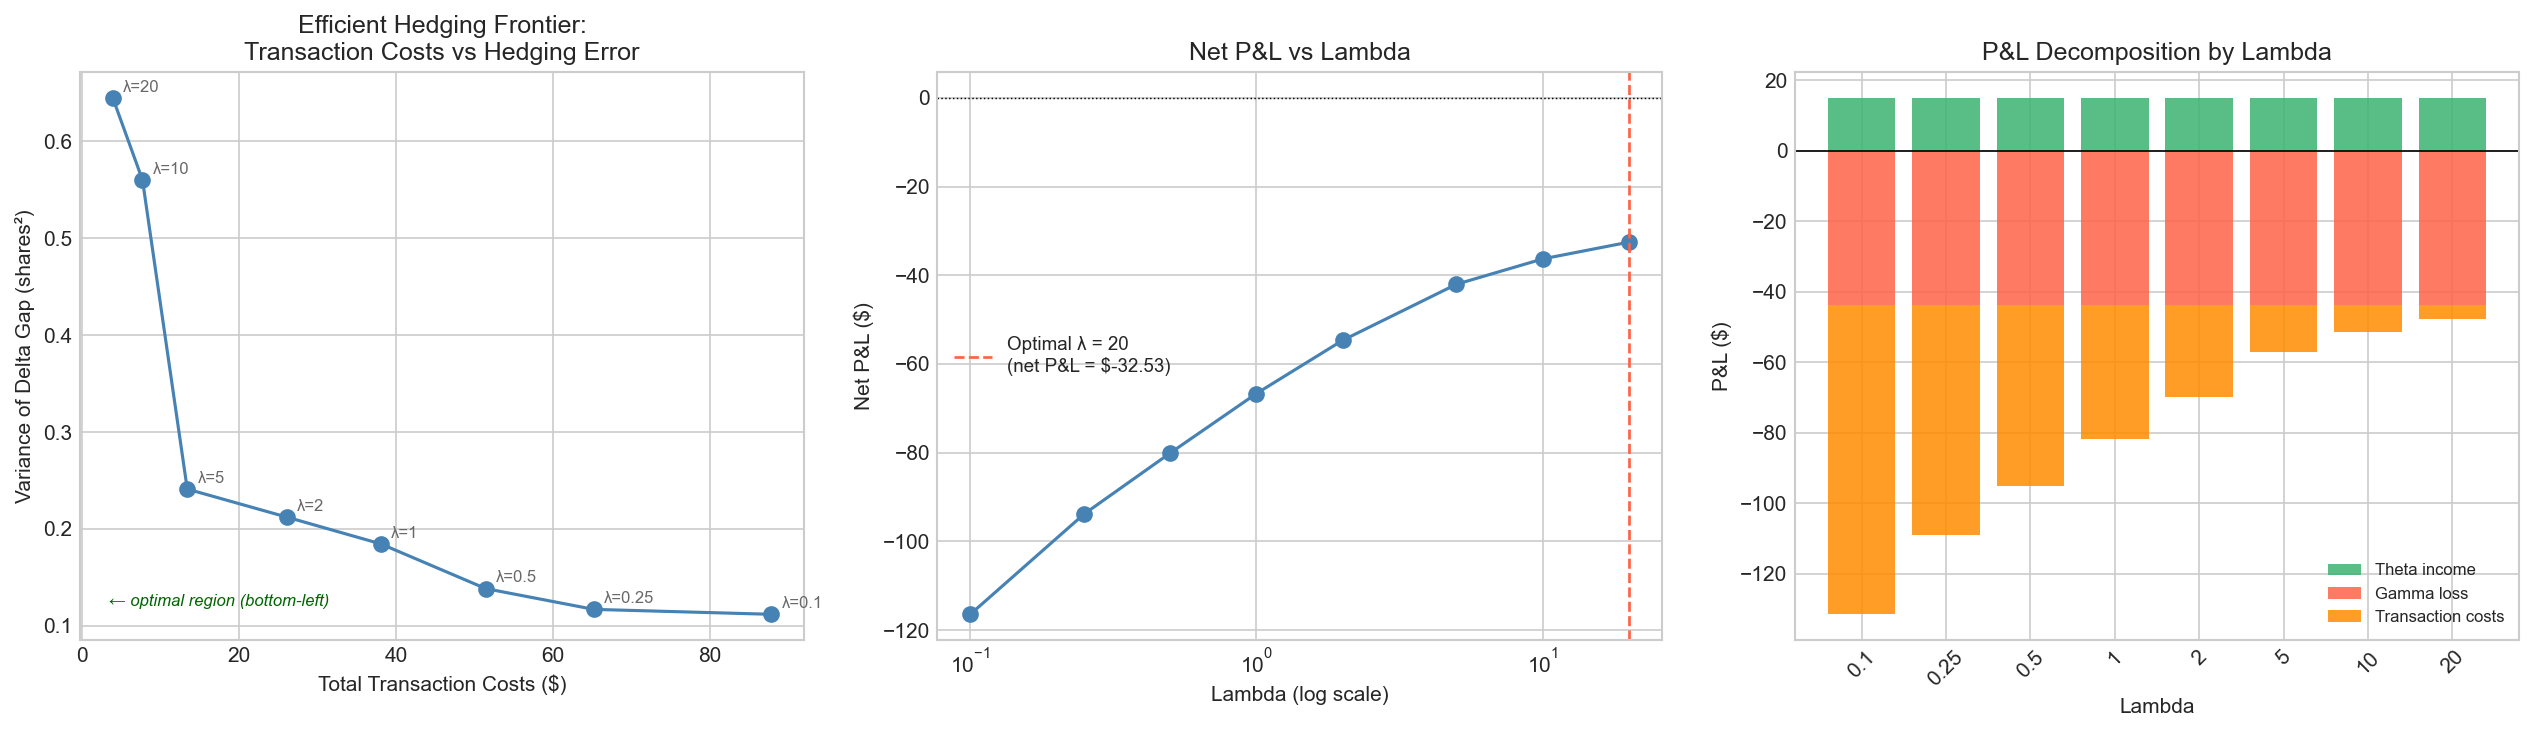
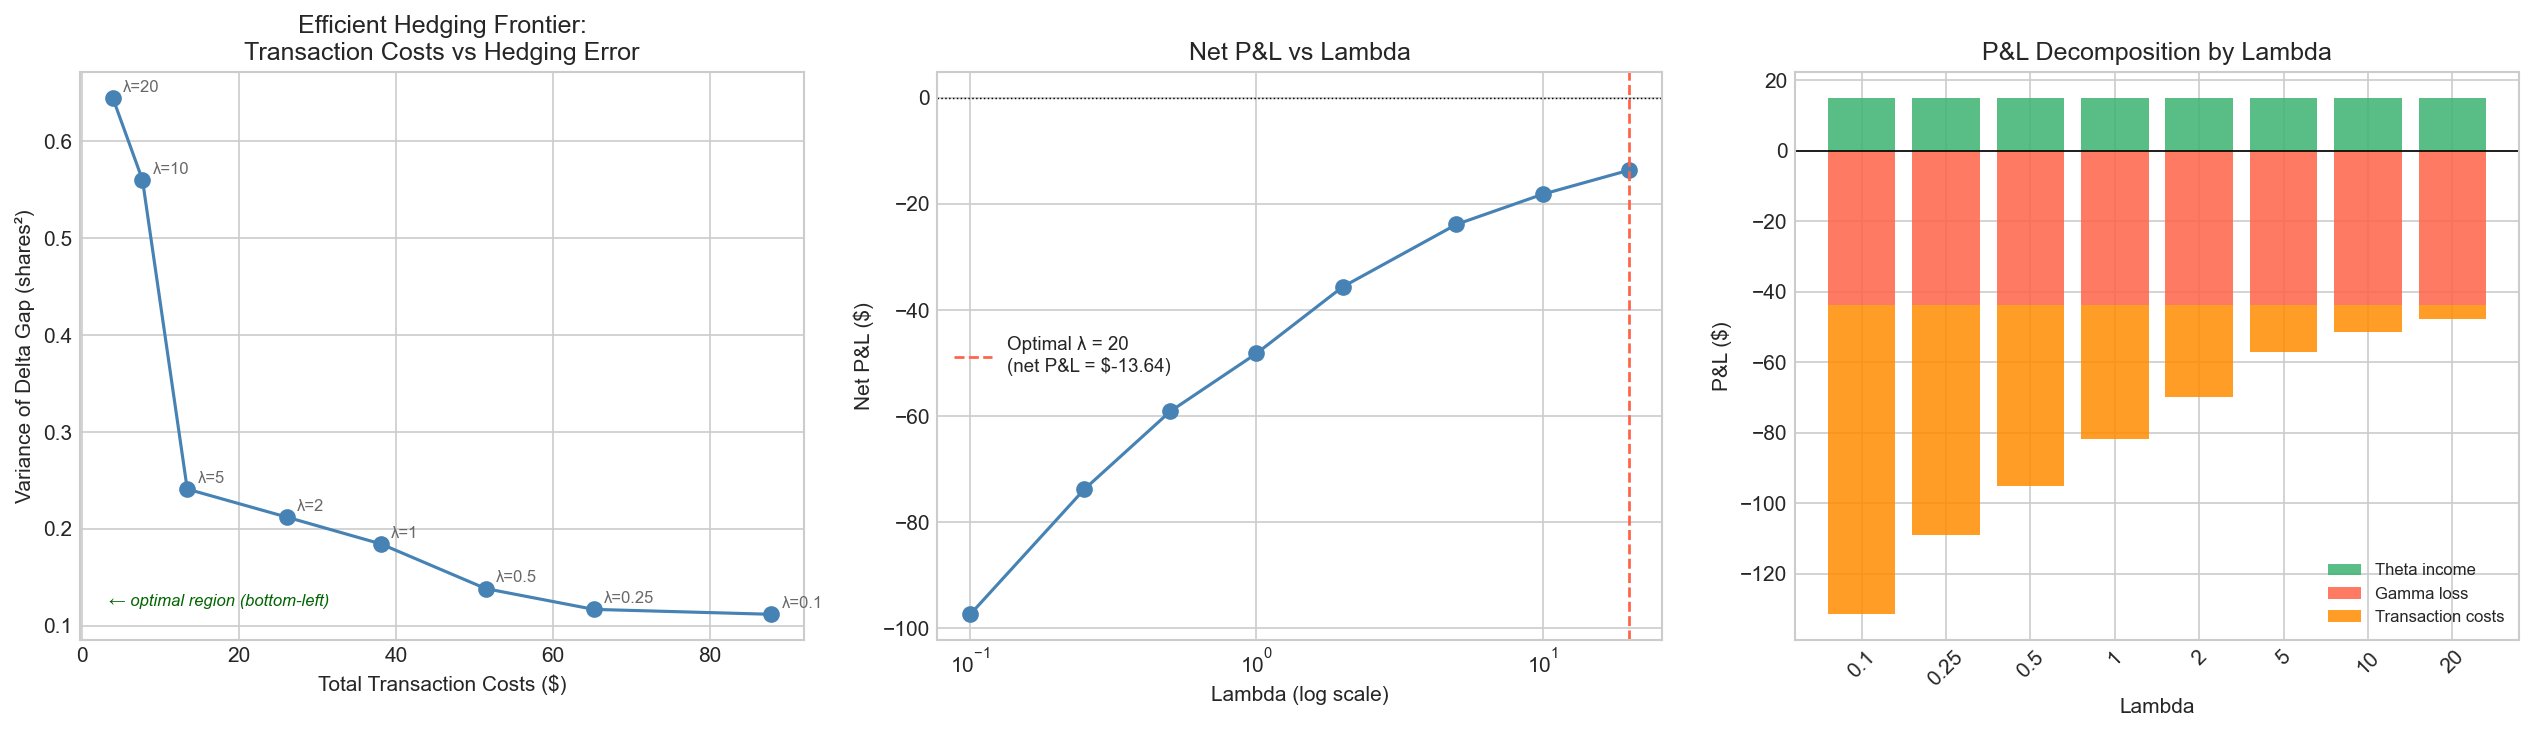
updated with delta P&L

diff --git a/engine/simulator.cpp b/engine/simulator.cpp
@@ -39,7 +39,7 @@ void run_simulation(const std::string& ob_file, const std::string& msg_file, dou
                  "delta_gap_shares,T_remaining,time_since_last_hedge,gamma_pnl_step,"
                  "theta_pnl_step,net_pnl_step,cumulative_gamma_pnl,cumulative_theta_pnl,"
                  "cumulative_tcost,rolling_ofi_50,hedged,shares_traded,exec_price,"
-                 "slippage_per_share,total_slippage\n";
+                 "slippage_per_share,total_slippage,mtm_pnl\n";
 
     hedge_out << "timestamp,mid_price,spread,delta_gap_shares,shares_traded,exec_price,"
                  "slippage_per_share,total_slippage,rolling_ofi_50,hedge_number,cumulative_tcost\n";
@@ -55,6 +55,10 @@ void run_simulation(const std::string& ob_file, const std::string& msg_file, dou
     double cumulative_tcost      = 0.0;
     double cumulative_gamma_pnl  = 0.0;
     double cumulative_theta_pnl  = 0.0;
+    double initial_straddle_value = 0.0;
+    double cumulative_hedge_cash  = 0.0;
+    double final_mtm_pnl          = 0.0;
+    bool   straddle_initialized   = false;
     int    hedge_count           = 0;
     int    prev_bid_size_1       = 0;
     int    prev_ask_size_1       = 0;
@@ -133,24 +137,33 @@ void run_simulation(const std::string& ob_file, const std::string& msg_file, dou
 
         if (spread < 0.0 || mid_price <= 0.0) continue;
 
+        // T_remaining in years — computed first so it is available to the bootstrap init.
+        double T_remaining = std::max(
+            EXPIRY_DAYS / 365.0 - (timestamp - TRADING_START) / (86400.0 * 365.0),
+            0.001);
+
         // Bootstrap: initialise state from the very first valid row.
-        // dS, dt, and time_since_last_hedge are all 0 on this row, so
-        // gamma P&L, theta P&L, and gamma_risk are all zero — no hedge fires.
+        // Must run before dt/time_since_last_hedge so those quantities are 0 on row 1,
+        // keeping gamma P&L, theta P&L, and gamma_risk all zero — no hedge fires.
         if (first_row) {
             prev_mid        = mid_price;
             prev_timestamp  = timestamp;
             last_hedge_time = timestamp;
             first_row       = false;
+
+            if (!straddle_initialized) {
+                double init_call = bs_price_call(mid_price, STRIKE,
+                                                 T_remaining, RISK_FREE, IMPLIED_VOL);
+                double init_put  = bs_price_put(mid_price, STRIKE,
+                                                T_remaining, RISK_FREE, IMPLIED_VOL);
+                initial_straddle_value = (init_call + init_put) * CONTRACT_SIZE;
+                straddle_initialized   = true;
+            }
         }
 
         // --- Step 3 (cont): time variables ---
         double dt                    = timestamp - prev_timestamp;
         double time_since_last_hedge = timestamp - last_hedge_time;
-
-        // T_remaining in years: elapsed calendar seconds → calendar years (÷ 86400 × 365)
-        double T_remaining = std::max(
-            EXPIRY_DAYS / 365.0 - (timestamp - TRADING_START) / (86400.0 * 365.0),
-            0.001);
 
         // --- Step 4: greeks ---
         StraddleGreeks g;
@@ -204,9 +217,10 @@ void run_simulation(const std::string& ob_file, const std::string& msg_file, dou
                 slippage_per_share = std::abs(exec_price - mid_price);
                 total_slippage     = slippage_per_share * std::abs(shares_to_trade);
 
-                position_delta   -= (double)shares_to_trade;
-                cumulative_tcost += total_slippage;
-                last_hedge_time   = timestamp;
+                position_delta       -= (double)shares_to_trade;
+                cumulative_tcost     += total_slippage;
+                cumulative_hedge_cash += (double)shares_to_trade * exec_price;
+                last_hedge_time       = timestamp;
                 ++hedge_count;
                 hedged = 1;
 
@@ -224,9 +238,22 @@ void run_simulation(const std::string& ob_file, const std::string& msg_file, dou
         double theta_pnl_step = g.theta * (dt / 86400.0) * CONTRACT_SIZE;
         double net_pnl_step   = gamma_pnl_step + theta_pnl_step - total_slippage;
 
+        // --- Step 9 (cont): mark-to-market P&L ---
+        double current_call  = bs_price_call(mid_price, STRIKE,
+                                             T_remaining, RISK_FREE, IMPLIED_VOL);
+        double current_put   = bs_price_put(mid_price, STRIKE,
+                                            T_remaining, RISK_FREE, IMPLIED_VOL);
+        double current_straddle_value = (current_call + current_put) * CONTRACT_SIZE;
+        double hedge_inventory_value  = position_delta * mid_price;
+        double mtm_pnl = initial_straddle_value
+                       - current_straddle_value
+                       + hedge_inventory_value
+                       + cumulative_hedge_cash;
+
         // --- Step 10: update cumulative P&L ---
         cumulative_gamma_pnl += gamma_pnl_step;
         cumulative_theta_pnl += theta_pnl_step;
+        final_mtm_pnl         = mtm_pnl;
 
         // --- Step 11: write tick_log ---
         tick_out << std::fixed
@@ -256,7 +283,8 @@ void run_simulation(const std::string& ob_file, const std::string& msg_file, dou
                  << shares_to_trade << ","
                  << std::setprecision(4) << exec_price << ","
                  << slippage_per_share << ","
-                 << std::setprecision(6) << total_slippage << "\n";
+                 << std::setprecision(6) << total_slippage << ","
+                 << mtm_pnl << "\n";
 
         // --- Step 12: write hedge_log ---
         if (hedged) {
@@ -299,17 +327,19 @@ void run_simulation(const std::string& ob_file, const std::string& msg_file, dou
     if (hedge_count > 1)
         avg_time_between_hedges = (prev_hedge_time - first_hedge_time) / (double)(hedge_count - 1);
 
-    double net_pnl = cumulative_gamma_pnl + cumulative_theta_pnl - cumulative_tcost;
+    double greek_net_pnl = cumulative_gamma_pnl + cumulative_theta_pnl - cumulative_tcost;
 
     sum_out << "total_events,total_hedges,total_gamma_pnl,total_theta_pnl,total_tcost,"
-               "net_pnl,avg_spread,avg_time_between_hedges,lambda_used,implied_vol_used,strike_used\n";
+               "greek_net_pnl,mtm_pnl,avg_spread,avg_time_between_hedges,"
+               "lambda_used,implied_vol_used,strike_used\n";
     sum_out << std::fixed << std::setprecision(6)
             << total_events << ","
             << hedge_count  << ","
             << cumulative_gamma_pnl << ","
             << cumulative_theta_pnl << ","
             << cumulative_tcost << ","
-            << net_pnl << ","
+            << greek_net_pnl << ","
+            << final_mtm_pnl << ","
             << avg_spread << ","
             << avg_time_between_hedges << ","
             << lambda << ","
@@ -325,7 +355,8 @@ void run_simulation(const std::string& ob_file, const std::string& msg_file, dou
               << "Cumulative gamma P&L   : $" << cumulative_gamma_pnl  << "\n"
               << "Cumulative theta P&L   : $" << cumulative_theta_pnl  << "\n"
               << "Total transaction costs: $" << cumulative_tcost       << "\n"
-              << "Net P&L                : $" << net_pnl                << "\n"
+              << "Greek net P&L          : $" << greek_net_pnl          << "\n"
+              << "MTM P&L                : $" << final_mtm_pnl          << "\n"
               << std::setprecision(4)
               << "Average spread         : $" << avg_spread             << "\n"
               << std::setprecision(1)

diff --git a/engine/greeks.hpp b/engine/greeks.hpp
@@ -1,4 +1,5 @@
 #pragma once
+#include <algorithm>
 #include <cmath>
 
 #ifndef M_PI
@@ -49,6 +50,26 @@ inline double bs_theta_put(double S, double K, double T, double r, double sigma)
     double d2 = bs_d2(S, K, T, r, sigma);
     return -(S * norm_pdf(d1) * sigma / (2.0 * std::sqrt(T))
              - r * K * std::exp(-r * T) * norm_cdf(-d2)) / 365.0;
+}
+
+inline double bs_price_call(double S, double K, double T,
+                             double r, double sigma) {
+    if (T <= 0.0 || sigma <= 0.0 || S <= 0.0 || K <= 0.0)
+        return std::max(S - K, 0.0);
+    double d1 = bs_d1(S, K, T, r, sigma);
+    double d2 = bs_d2(S, K, T, r, sigma);
+    return S * norm_cdf(d1)
+           - K * std::exp(-r * T) * norm_cdf(d2);
+}
+
+inline double bs_price_put(double S, double K, double T,
+                            double r, double sigma) {
+    if (T <= 0.0 || sigma <= 0.0 || S <= 0.0 || K <= 0.0)
+        return std::max(K - S, 0.0);
+    double d1 = bs_d1(S, K, T, r, sigma);
+    double d2 = bs_d2(S, K, T, r, sigma);
+    return K * std::exp(-r * T) * norm_cdf(-d2)
+           - S * norm_cdf(-d1);
 }
 
 struct StraddleGreeks {

diff --git a/research/frontier.py b/research/frontier.py
@@ -43,7 +43,8 @@ def run_engine(lambda_val: float,
         "lambda_val":              float(lambda_val),
         "total_tcost":             float(row["total_tcost"]),
         "total_hedges":            int(row["total_hedges"]),
-        "net_pnl":                 float(row["net_pnl"]),
+        "net_pnl":                 float(row["mtm_pnl"]),
+        "greek_net_pnl":           float(row["greek_net_pnl"]),
         "total_gamma_pnl":         float(row["total_gamma_pnl"]),
         "total_theta_pnl":         float(row["total_theta_pnl"]),
         "delta_gap_variance":      delta_gap_var,